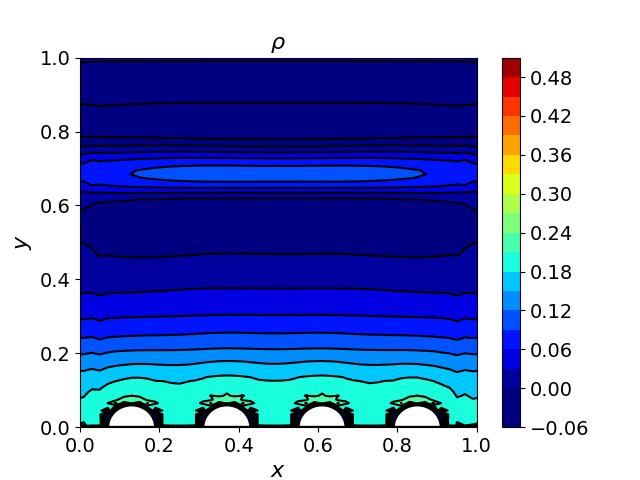
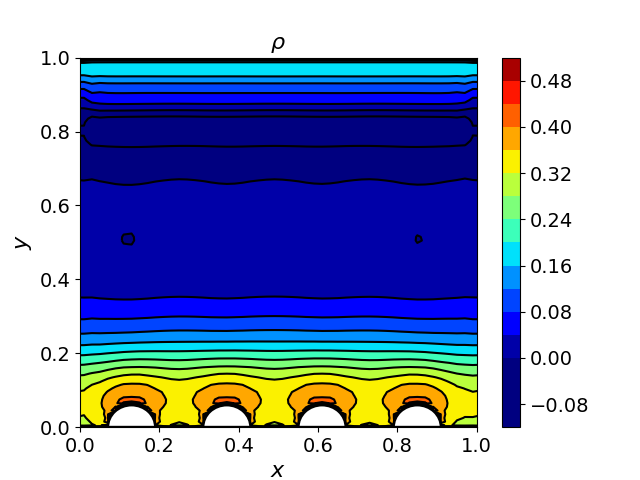
improved sheath with rough wall

diff --git a/examples/sheath_rough_wall/main.cpp b/examples/sheath_rough_wall/main.cpp
@@ -1,8 +1,8 @@
-#include "grid.hpp"
-#include "poisson_1st_order.hpp"
 #include "full/vlasov.hpp"
 #include "full/world.hpp"
 #include "full/writer.hpp"
+#include "grid.hpp"
+#include "poisson_1st_order.hpp"
 #include <INIReader.h>
 #include <Kokkos_Core.hpp>
 #include <iostream>
@@ -10,12 +10,12 @@
 
 struct ImmersedWorld : World<ImmersedWorld> {
     // all quantities are normalized by electron parameters
-    double phi_w  = -4;                                                       // rough spikes potential
-    double v_th_e = Kokkos::sqrt(T[0] / m[0]);                                // electron thermal velocity
-    double v_th_i = Kokkos::sqrt(T[1] / m[1]);                                // ion thermal velocity
-    double u0     = Kokkos::sqrt(T[0] / m[1]);                                // Bohm velocity
-                                                                              //
-    Kokkos::View<double*> E_w = Kokkos::View<double*>("E_w", grid.ncells[0]); // wall electric field
+    double phi_w  = -4;                        // rough spikes potential
+    double v_th_e = Kokkos::sqrt(T[0] / m[0]); // electron thermal velocity
+    double v_th_i = Kokkos::sqrt(T[1] / m[1]); // ion thermal velocity
+    double u0     = Kokkos::sqrt(T[0] / m[1]); // Bohm velocity
+                                               //
+    // Kokkos::View<double*> E_w = Kokkos::View<double*>("E_w", grid.ncells[0]); // wall electric field
 
     ImmersedWorld(Grid& grid)
         : World<ImmersedWorld>(grid) {}
@@ -48,6 +48,16 @@ struct ImmersedWorld : World<ImmersedWorld> {
         auto& grid              = this->grid;
         auto [nx, ny, nvx, nvy] = grid.ncells;
         int ngc                 = grid.ngc;
+
+        // Initialize potential with Debye-shielded profile for faster relaxation
+        Kokkos::parallel_for(
+            Kokkos::MDRangePolicy({ngc, ngc}, {nx - ngc, ny - ngc}), KOKKOS_CLASS_LAMBDA(const int i, const int j) {
+                auto [x, y] = grid.center(i, j);
+                if (surface(x, y) > 0.0) {
+                    phi(i, j) = phi_w * Kokkos::exp(-y / 2.5);
+                }
+            });
+        Kokkos::fence();
 
         Kokkos::deep_copy(f, 0.0);
         Kokkos::parallel_for(
@@ -106,8 +116,8 @@ struct ImmersedWorld : World<ImmersedWorld> {
                 // electron
                 {
                     auto [x, y, vx, vy] = grid.center(i, j, iv, jv, 0);
-                    double n1 = normal(i, j, 0);
-                    double n2 = normal(i, j, 1);
+                    double n1           = normal(i, j, 0);
+                    double n2           = normal(i, j, 1);
                     // double v_ce         = sqrt(2 * (phi(i, j) - phi_w) / m[0]); // electron cutoff velocity
                     double v_ce = sqrt(2 * (phi(i, j) - phi(i, ngc)) / m[0]);
                     if (j < ngc && vy > 0.0) {
@@ -125,8 +135,8 @@ struct ImmersedWorld : World<ImmersedWorld> {
                 // ion
                 {
                     auto [x, y, vx, vy] = grid.center(i, j, iv, jv, 1);
-                    double n1 = normal(i, j, 0);
-                    double n2 = normal(i, j, 1);
+                    double n1           = normal(i, j, 0);
+                    double n2           = normal(i, j, 1);
                     double v_ci         = -sqrt(2 * abs(phi(i, j)) / m[1]); // ion cutoff velocity
                     if (j < ngc && vy > 0.0) {
                         f(i, j, iv, jv, 1) = 0.0; // bottom boundary, zero-inflow
@@ -159,7 +169,7 @@ struct ImmersedWorld : World<ImmersedWorld> {
     double poisson_jump_condition_b(double x, double y) { return 0.0; }
 
     KOKKOS_INLINE_FUNCTION
-    double permittivity(double x, double y) { return surface(x, y) <= 0 ? 1000.0 : 0.0; }
+    double permittivity(double x, double y) { return surface(x, y) <= 0 ? 1000.0 : 1.0; }
 
     void potential_boundary_conditions() {
         using Kokkos::abs;
@@ -186,19 +196,7 @@ struct ImmersedWorld : World<ImmersedWorld> {
                         // E_w(i) += (flux_i - flux_e) * dt;
                         // phi(i, j) = phi(i, ngc + 1) + E_w(i) * 2 * dy;
 
-                        // floating dist
-                        // for (int sp = 0; sp < 2; ++sp) {
-                        //     auto [dx, dy, dvx, dvy] = grid.spacing[sp];
-                        //     for (int iv = 0; iv < nvx; ++iv)
-                        //         for (int jv = 0; jv < nvy; ++jv)
-                        //             E_w(i) += q[sp] * f(i, ngc, iv, jv, sp) * dvx * dvy * dt;
-                        // }
-                        // phi(i, j) = phi(i, ngc + 1) + E_w(i) * 2 * dy;
-
-                        // dirichlet
-                        // phi(i, j) = phi_w;
-
-                        // neumann
+                        // neumann (use neumann here, it's not really a sheath edge here)
                         phi(i, j) = phi(i, ngc + 1);
                     }
                     if (surface(x, y) < 0.0) {
@@ -294,7 +292,7 @@ int main(int argc, char* argv[]) {
     world.v_th_i      = v_th_i;
     world.u0          = u0;
 
-    PoissonSolver1stOrder poisson_solver(world, 1e-6, 5e3);
+    PoissonSolver1stOrder poisson_solver(world, 1e-6, 5e3, 1.5);
     Writer writer(world, output_folder, output_prefix, {"ni", "ne", "phi"});
     Vlasolver vlasolver(world, poisson_solver, writer);
 

diff --git a/examples/sheath_rough_wall/plottings.py b/examples/sheath_rough_wall/plottings.py
@@ -26,33 +26,22 @@ Ti = 0.1  # eV
 Te = 1.0  # eV
 Tr = Ti / Te
 
-step = 40000
+step = 3000
 file_path = os.path.dirname(os.path.realpath(__file__))
 with h5py.File(
-    f"{file_path}/../../data/sheath_rough_wall/output_{step:05d}.h5",
+    f"{file_path}/../../data/sheath_rough_wall/output_{step:04d}.h5",
     "r",
 ) as f:
     ni = f["VTKHDF/CellData/ni"][:].reshape(nx + 2 * G, ny + 2 * G)
     ne = f["VTKHDF/CellData/ne"][:].reshape(nx + 2 * G, ny + 2 * G)
     phi = f["VTKHDF/CellData/phi"][:].reshape(nx + 2 * G, ny + 2 * G) / (2 * Tr)
 
-is_include_ghost = True
-if is_include_ghost:
-    dx, dy = Lx / nx, Ly / ny
-    x = np.arange(x_min - G * dx + dx / 2, x_min + Lx + G * dx, dx)
-    y = np.arange(y_min - G * dy + dy / 2, y_min + Ly + G * dy, dy)
-else:
-    ni = ni[G:-G, G:-G]
-    ne = ne[G:-G, G:-G]
-    phi = phi[G:-G, G:-G]
-
-    dx, dy = Lx / nx, Ly / ny
-    x = np.arange(x_min + dx / 2, x_min + Lx, dx)
-    y = np.arange(y_min + dy / 2, y_min + Ly, dy)
-
+dx, dy = Lx / nx, Ly / ny
+x = np.arange(x_min - G * dx + dx / 2, x_min + Lx + G * dx, dx)
+y = np.arange(y_min - G * dy + dy / 2, y_min + Ly + G * dy, dy)
 X, Y = np.meshgrid(x, y, indexing="ij")
 plt.figure()
-levels = np.linspace(0, 1, 14)
+levels = np.linspace(0, ne.max(), 14)
 plt.contourf(
     X,
     Y,
@@ -60,10 +49,10 @@ plt.contourf(
     cmap="jet",
     levels=levels,
     vmin=0,
-    vmax=1,
+    vmax=ne.max(),
 )
 plt.colorbar()
-plt.contour(X, Y, ne, levels=levels, vmin=0, vmax=1, colors="black", linestyles="solid")
+plt.contour(X, Y, ne, levels=levels, vmin=0, vmax=ne.max(), colors="black", linestyles="solid")
 for xc in np.arange(0.13 * Lx, Lx, 0.24 * Lx, dtype=float):
     circle = Wedge(
         center=(xc, 0),
